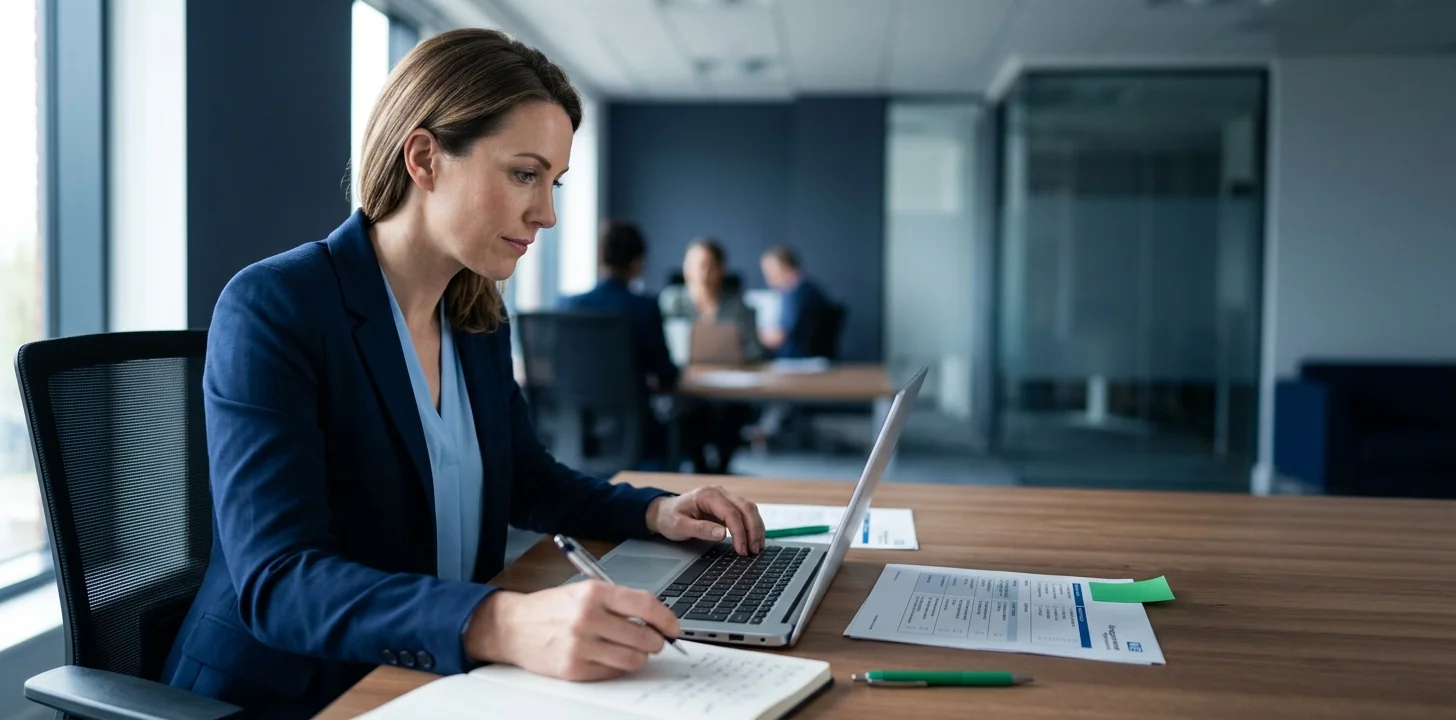
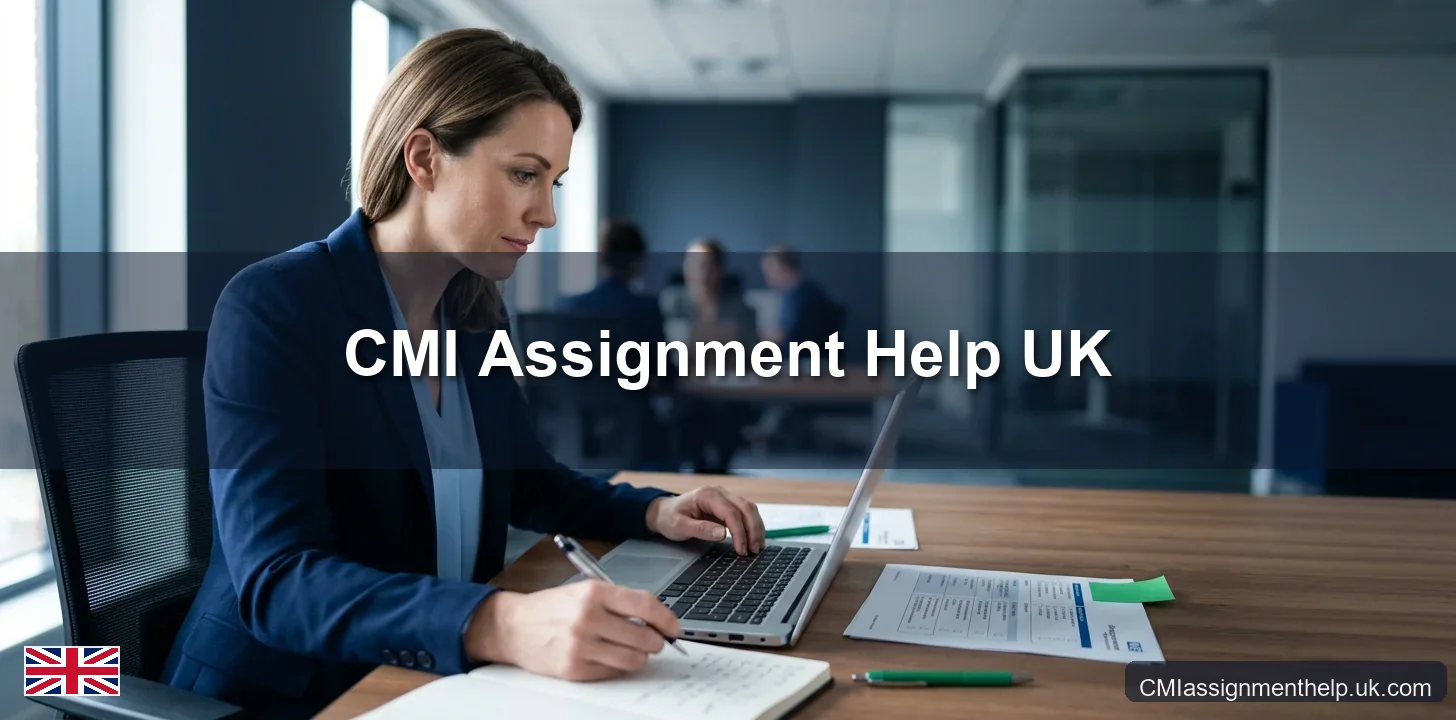
feat: brand homepage image with headline/flag/watermark, add header image to Is It Worth It guide

diff --git a/src/pages/guides/is-cmi-qualification-worth-it/index.md b/src/pages/guides/is-cmi-qualification-worth-it/index.md
@@ -3,6 +3,8 @@ layout: ../../../layouts/UnitPage.astro
 title: "Is a CMI Qualification Worth It? | Career ROI, Employer Recognition, and Who Benefits Most"
 description: "The honest answer is: it depends on who you are, what sector you work in, and what you are trying to achieve. A CMI qualification is not universally the best..."
 canonical: "https://cmiassignmenthelp.uk.com/guides/is-cmi-qualification-worth-it/"
+headerImage: "/images/headers/is-cmi-qualification-worth-it.webp"
+headerImageAlt: "Is a CMI Qualification Worth It — career ROI, employer recognition, and who benefits most"
 ---
 
 # Is a CMI Qualification Worth It? | Career ROI, Employer Recognition, and Who Benefits Most
